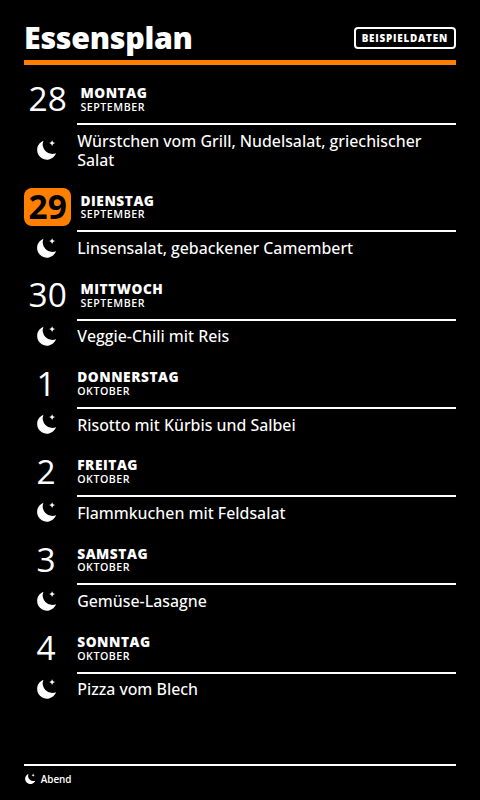
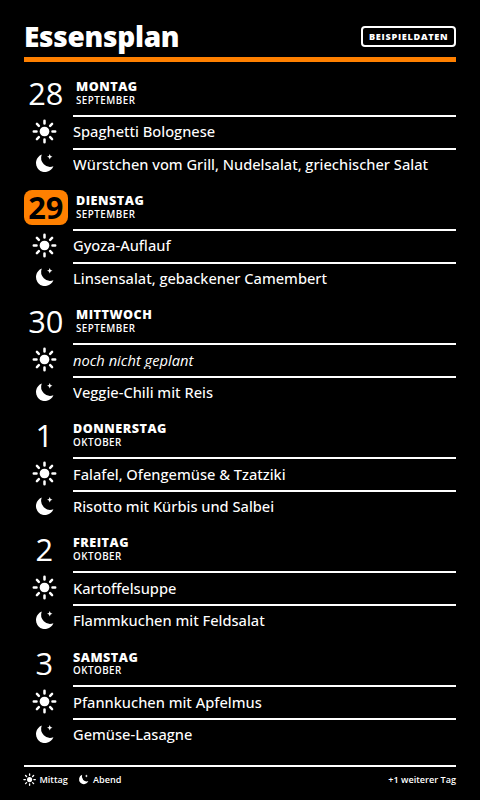
Show lunch and dinner in all Meal Plan Calendar samples
The sample generator dropped lunches when slots was "dinner", unlike a
real calendar where the setting only controls "not planned yet"
placeholders. Samples now always contain lunch and dinner, and the dark
screenshot variant uses lunch and dinner like the light one.

Claude-Session: https://claude.ai/code/session_016spRLE17zGqgwacGFc512h

Changed region(s): [[0.0312, 0.0312, 0.9688, 0.9375], [0.0312, 0.9688, 0.25, 1.0], [0.8125, 0.9688, 0.9688, 1.0]]

diff --git a/applications/meal-plan-calendar/api/data.js b/applications/meal-plan-calendar/api/data.js
@@ -161,15 +161,16 @@ const SAMPLE_MEALS = {
     ["Lentil stew", "Sheet-pan pizza"],
   ],
 };
-export function sampleEvents(start, language, slots = "lunch-dinner") {
+// Like a real calendar, the sample always holds lunch and dinner; the slots setting
+// only decides which empty meals get a "not planned yet" placeholder.
+export function sampleEvents(start, language) {
   const dishes = SAMPLE_MEALS[language] || SAMPLE_MEALS.en;
-  const withLunch = slots !== "dinner";
   const events = [];
   for (let index = 0; index < MAX_PLAN_DAYS; index += 1) {
     const [lunch, dinner] = dishes[index % dishes.length];
     const date = addDays(start, index);
     // Leave one lunch open so the sample also shows the "not planned yet" state.
-    if (withLunch && index !== 2) {
+    if (index !== 2) {
       const prefix = language === "de" ? "Mittag" : "Lunch";
       events.push({ id: `sample-l-${index}`, title: `${prefix}: ${lunch}`, start: { date }, end: { date: addDays(date, 1) } });
     }
@@ -194,7 +195,7 @@ export default async function handler({ query = {} }) {
   let events;
   let calendarName = "";
   if (sample) {
-    events = sampleEvents(range.start, language, slots);
+    events = sampleEvents(range.start, language);
   } else {
     const ics = await fetchCalendarFeed({ feedUrl: calendarUrl });
     const parsed = parseCalendarFeed(ics, {
